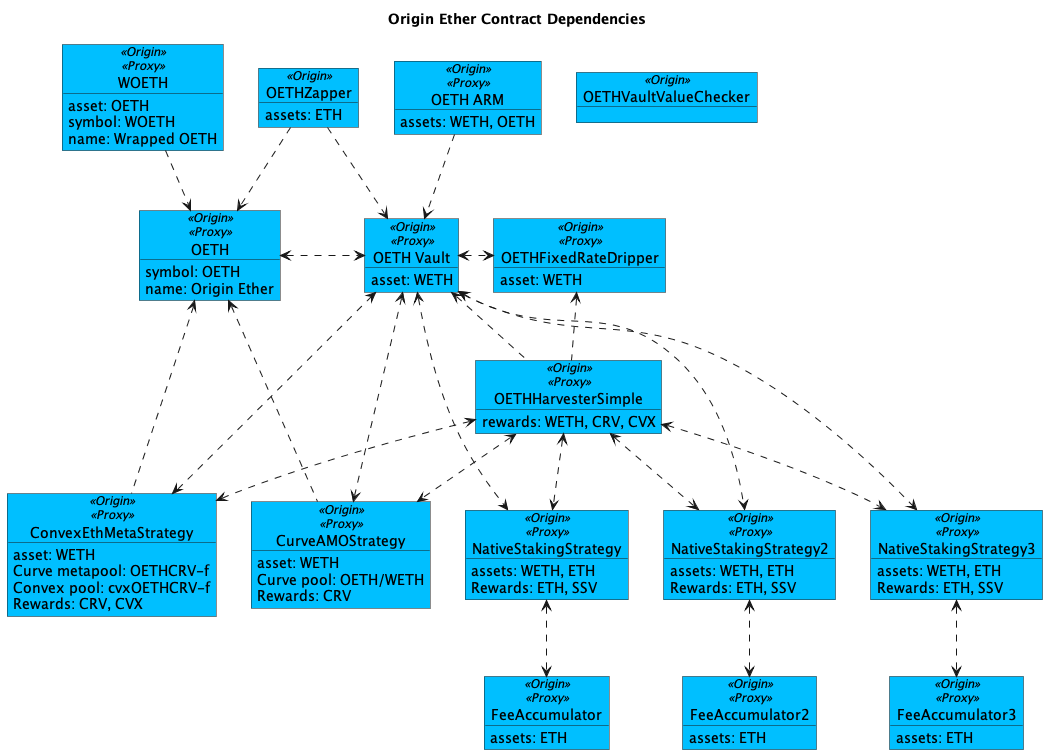
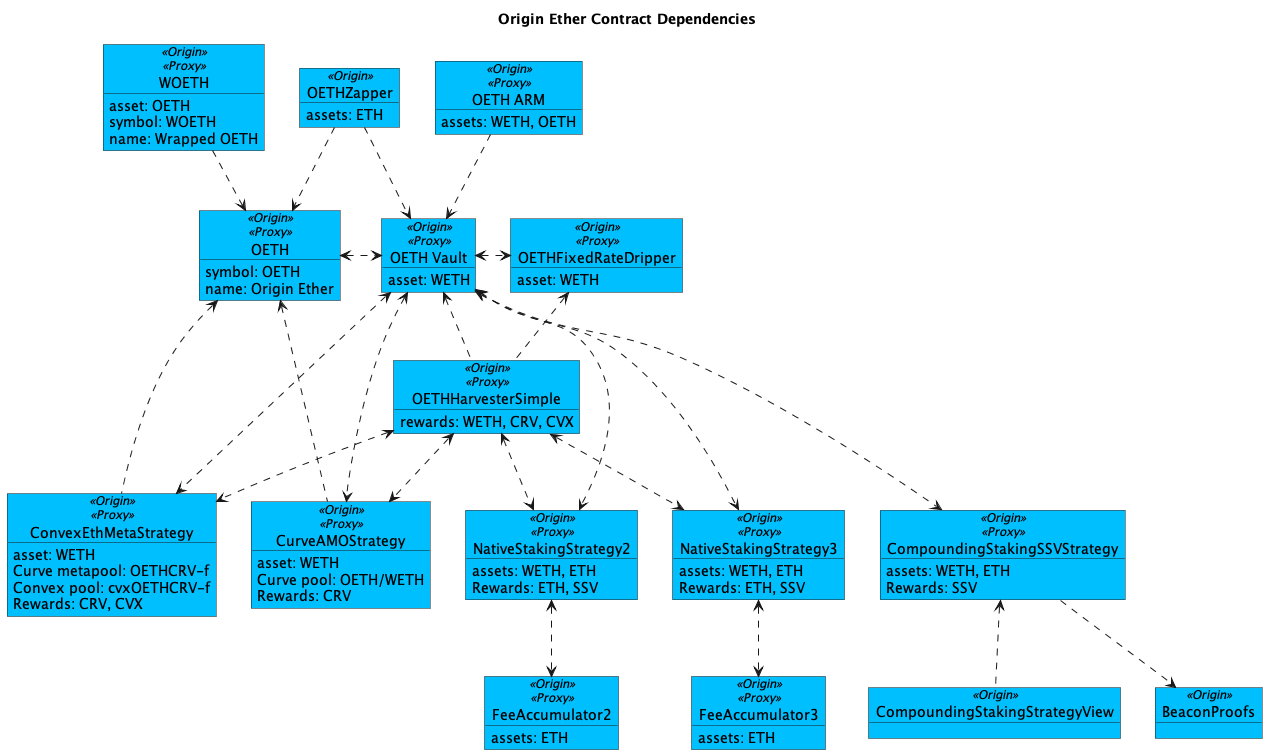
GITBOOK-338: No subject

diff --git a/registry/contracts/oeth-registry.md b/registry/contracts/oeth-registry.md
@@ -6,11 +6,11 @@ description: Contracts related to Origin Ether
 
 Most of Origin's contracts are upgradable via a well-known proxy wrapper and an implementation contract. The Vault is split into VaultAdmin and VaultCore to work around the maximum contract size limit on Ethereum.
 
-<figure><img src="../../.gitbook/assets/oethContracts (1).png" alt=""><figcaption><p>OETH Contract Dependencies</p></figcaption></figure>
+<figure><img src="../../.gitbook/assets/oethContracts.png" alt="OETH Contract Dependencies"><figcaption></figcaption></figure>
 
 #### Ethereum
 
-<table><thead><tr><th width="288">Contract</th><th>Address</th></tr></thead><tbody><tr><td>Origin Ether (ERC-20)</td><td><a href="https://etherscan.io/address/0x856c4Efb76C1D1AE02e20CEB03A2A6a08b0b8dC3#code">0x856c4Efb76C1D1AE02e20CEB03A2A6a08b0b8dC3</a></td></tr><tr><td>Wrapped OETH (ERC-4626)</td><td><a href="https://etherscan.io/address/0xdcee70654261af21c44c093c300ed3bb97b78192#code">0xDcEe70654261AF21C44c093C300eD3Bb97b78192</a></td></tr><tr><td>Vault</td><td><a href="https://etherscan.io/address/0x39254033945AA2E4809Cc2977E7087BEE48bd7Ab#code">0x39254033945AA2E4809Cc2977E7087BEE48bd7Ab</a></td></tr><tr><td>Zapper</td><td><a href="https://etherscan.io/address/0x9858e47BCbBe6fBAC040519B02d7cd4B2C470C66#code">0x9858e47BCbBe6fBAC040519B02d7cd4B2C470C66</a></td></tr><tr><td>Harvester</td><td><a href="https://etherscan.io/address/0x0d017afa83eace9f10a8ec5b6e13941664a6785c#code">0x0D017aFA83EAce9F10A8EC5B6E13941664A6785C</a></td></tr><tr><td>Harvester Simple</td><td><a href="https://etherscan.io/address/0x6D416E576eECBB9F897856a7c86007905274ed04">0x6D416E576eECBB9F897856a7c86007905274ed04</a></td></tr><tr><td>FixedRateDripper</td><td><a href="https://etherscan.io/address/0xe3b3b4fc77505ecfaacf6dd21619a8cc12fcc501">0xe3b3b4fc77505ecfaacf6dd21619a8cc12fcc501</a></td></tr><tr><td>Buyback</td><td><a href="https://etherscan.io/address/0xFD6c58850caCF9cCF6e8Aee479BFb4Df14a362D2#code">0xFD6c58850caCF9cCF6e8Aee479BFb4Df14a362D2</a></td></tr><tr><td>Oracle Router</td><td><a href="https://etherscan.io/address/0x468a68da3cefcdd644ce0ea9b9564b246218aeec#code">0x468A68da3cefcDD644ce0Ea9B9564b246218aeeC</a></td></tr><tr><td>First Native Staking Strategy</td><td><a href="https://etherscan.io/address/0x34edb2ee25751ee67f68a45813b22811687c0238">0x34eDb2ee25751eE67F68A45813B22811687C0238</a></td></tr><tr><td>First Native Staking Fee Accumulator</td><td><a href="https://etherscan.io/address/0x7eD4ccb74A1eE903Af5fBd9be00CA8616F23D627">0x7eD4ccb74A1eE903Af5fBd9be00CA8616F23D627</a></td></tr><tr><td>Second Native Staking Strategy</td><td><a href="https://etherscan.io/address/0x4685db8bf2df743c861d71e6cfb5347222992076">0x4685dB8bF2Df743c861d71E6cFb5347222992076</a></td></tr><tr><td>Second Native Staking Fee Accumulator</td><td><a href="https://etherscan.io/address/0xfEE31c09fA5E9cdbC1f80C90b42B58640be91DDF">0xfEE31c09fA5E9cdbC1f80C90b42B58640be91DDF</a></td></tr><tr><td>Third Native Staking Strategy</td><td><a href="https://etherscan.io/address/0xE98538A0e8C2871C2482e1Be8cC6bd9F8E8fFD63">0xE98538A0e8C2871C2482e1Be8cC6bd9F8E8fFD63</a></td></tr><tr><td>Third Native Staking Fee Accumulator</td><td><a href="https://etherscan.io/address/0x49674fBce040D95366604d1db3392E9bDEa14d48">0x49674fBce040D95366604d1db3392E9bDEa14d48</a></td></tr><tr><td>Convex ETH+OETH (AMO) Strategy</td><td><a href="https://etherscan.io/address/0x1827f9ea98e0bf96550b2fc20f7233277fcd7e63#code">0x1827F9eA98E0bf96550b2FC20F7233277FcD7E63</a></td></tr><tr><td>Curve OETH+WETH (AMO) Strategy</td><td><a href="https://etherscan.io/address/0xba0e352AB5c13861C26e4E773e7a833C3A223FE6#code">0xba0e352AB5c13861C26e4E773e7a833C3A223FE6</a></td></tr><tr><td>OETH / ETH Price Feed (Chainlink Oracle)</td><td><a href="https://etherscan.io/address/0x703118C4CbccCBF2AB31913e0f8075fbbb15f563#code">0x703118C4CbccCBF2AB31913e0f8075fbbb15f563</a></td></tr><tr><td>wOETH LayerZero Adapter</td><td><a href="https://etherscan.io/address/0x7d1bEa5807e6af125826d56ff477745BB89972b8">0x7d1bEa5807e6af125826d56ff477745BB89972b8</a></td></tr><tr><td>PoolBoostCentralRegistry</td><td><a href="https://etherscan.io/address/0xAA8af8Db4B6a827B51786334d26349eb03569731">0xAA8af8Db4B6a827B51786334d26349eb03569731</a></td></tr><tr><td>PoolBoosterFactoryMerkl</td><td><a href="https://etherscan.io/address/0x0FC66355B681503eFeE7741BD848080d809FD6db">0x0FC66355B681503eFeE7741BD848080d809FD6db</a></td></tr></tbody></table>
+<table><thead><tr><th width="288">Contract</th><th>Address</th></tr></thead><tbody><tr><td>Origin Ether (ERC-20)</td><td><a href="https://etherscan.io/address/0x856c4Efb76C1D1AE02e20CEB03A2A6a08b0b8dC3#code">0x856c4Efb76C1D1AE02e20CEB03A2A6a08b0b8dC3</a></td></tr><tr><td>Wrapped OETH (ERC-4626)</td><td><a href="https://etherscan.io/address/0xdcee70654261af21c44c093c300ed3bb97b78192#code">0xDcEe70654261AF21C44c093C300eD3Bb97b78192</a></td></tr><tr><td>Vault</td><td><a href="https://etherscan.io/address/0x39254033945AA2E4809Cc2977E7087BEE48bd7Ab#code">0x39254033945AA2E4809Cc2977E7087BEE48bd7Ab</a></td></tr><tr><td>Zapper</td><td><a href="https://etherscan.io/address/0x9858e47BCbBe6fBAC040519B02d7cd4B2C470C66#code">0x9858e47BCbBe6fBAC040519B02d7cd4B2C470C66</a></td></tr><tr><td>Harvester</td><td><a href="https://etherscan.io/address/0x0d017afa83eace9f10a8ec5b6e13941664a6785c#code">0x0D017aFA83EAce9F10A8EC5B6E13941664A6785C</a></td></tr><tr><td>Harvester Simple</td><td><a href="https://etherscan.io/address/0x6D416E576eECBB9F897856a7c86007905274ed04">0x6D416E576eECBB9F897856a7c86007905274ed04</a></td></tr><tr><td>FixedRateDripper</td><td><a href="https://etherscan.io/address/0xe3b3b4fc77505ecfaacf6dd21619a8cc12fcc501">0xe3b3b4fc77505ecfaacf6dd21619a8cc12fcc501</a></td></tr><tr><td>Buyback</td><td><a href="https://etherscan.io/address/0xFD6c58850caCF9cCF6e8Aee479BFb4Df14a362D2#code">0xFD6c58850caCF9cCF6e8Aee479BFb4Df14a362D2</a></td></tr><tr><td>Oracle Router</td><td><a href="https://etherscan.io/address/0x468a68da3cefcdd644ce0ea9b9564b246218aeec#code">0x468A68da3cefcDD644ce0Ea9B9564b246218aeeC</a></td></tr><tr><td>Compounding Staking Strategy</td><td><a href="https://etherscan.io/address/0xaF04828Ed923216c77dC22a2fc8E077FDaDAA87d">0xaF04828Ed923216c77dC22a2fc8E077FDaDAA87d</a></td></tr><tr><td>Compounding Staking Strategy View</td><td><a href="https://etherscan.io/address/0xEDf495F92c2eBdEE8B797E9C503aA7A3302A9c88">0xEDf495F92c2eBdEE8B797E9C503aA7A3302A9c88</a></td></tr><tr><td>BeaconProofs</td><td><a href="https://etherscan.io/address/0xc4444C5D9e7C1a5A0a01c5E4b11692d589DcAF22">0xc4444C5D9e7C1a5A0a01c5E4b11692d589DcAF22</a></td></tr><tr><td>First Native Staking Strategy</td><td><a href="https://etherscan.io/address/0x34edb2ee25751ee67f68a45813b22811687c0238">0x34eDb2ee25751eE67F68A45813B22811687C0238</a></td></tr><tr><td>First Native Staking Fee Accumulator</td><td><a href="https://etherscan.io/address/0x7eD4ccb74A1eE903Af5fBd9be00CA8616F23D627">0x7eD4ccb74A1eE903Af5fBd9be00CA8616F23D627</a></td></tr><tr><td>Second Native Staking Strategy</td><td><a href="https://etherscan.io/address/0x4685db8bf2df743c861d71e6cfb5347222992076">0x4685dB8bF2Df743c861d71E6cFb5347222992076</a></td></tr><tr><td>Second Native Staking Fee Accumulator</td><td><a href="https://etherscan.io/address/0xfEE31c09fA5E9cdbC1f80C90b42B58640be91DDF">0xfEE31c09fA5E9cdbC1f80C90b42B58640be91DDF</a></td></tr><tr><td>Third Native Staking Strategy</td><td><a href="https://etherscan.io/address/0xE98538A0e8C2871C2482e1Be8cC6bd9F8E8fFD63">0xE98538A0e8C2871C2482e1Be8cC6bd9F8E8fFD63</a></td></tr><tr><td>Third Native Staking Fee Accumulator</td><td><a href="https://etherscan.io/address/0x49674fBce040D95366604d1db3392E9bDEa14d48">0x49674fBce040D95366604d1db3392E9bDEa14d48</a></td></tr><tr><td>Convex ETH+OETH (AMO) Strategy</td><td><a href="https://etherscan.io/address/0x1827f9ea98e0bf96550b2fc20f7233277fcd7e63#code">0x1827F9eA98E0bf96550b2FC20F7233277FcD7E63</a></td></tr><tr><td>Curve OETH+WETH (AMO) Strategy</td><td><a href="https://etherscan.io/address/0xba0e352AB5c13861C26e4E773e7a833C3A223FE6#code">0xba0e352AB5c13861C26e4E773e7a833C3A223FE6</a></td></tr><tr><td>OETH / ETH Price Feed (Chainlink Oracle)</td><td><a href="https://etherscan.io/address/0x703118C4CbccCBF2AB31913e0f8075fbbb15f563#code">0x703118C4CbccCBF2AB31913e0f8075fbbb15f563</a></td></tr><tr><td>wOETH LayerZero Adapter</td><td><a href="https://etherscan.io/address/0x7d1bEa5807e6af125826d56ff477745BB89972b8">0x7d1bEa5807e6af125826d56ff477745BB89972b8</a></td></tr><tr><td>PoolBoostCentralRegistry</td><td><a href="https://etherscan.io/address/0xAA8af8Db4B6a827B51786334d26349eb03569731">0xAA8af8Db4B6a827B51786334d26349eb03569731</a></td></tr><tr><td>PoolBoosterFactoryMerkl</td><td><a href="https://etherscan.io/address/0x0FC66355B681503eFeE7741BD848080d809FD6db">0x0FC66355B681503eFeE7741BD848080d809FD6db</a></td></tr></tbody></table>
 
 The following Chainlink oracles are used to protect the vault in case a backing asset loses value. They also offer slippage protection when harvesting rewards tokens.
 
